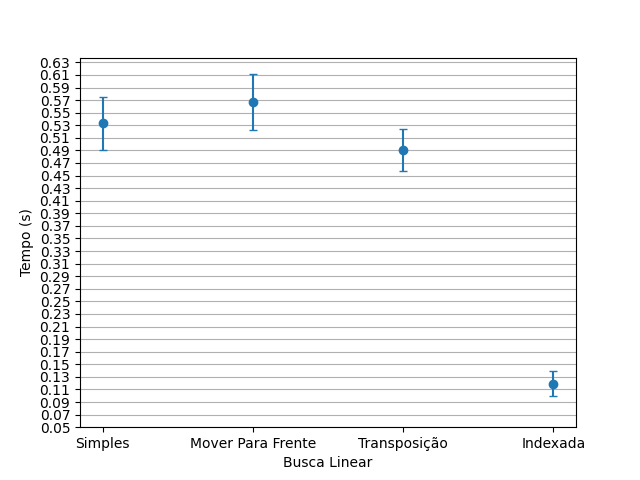
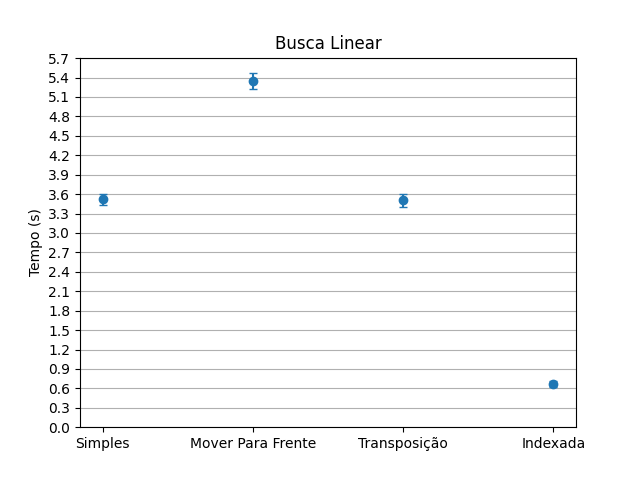
linear search data output

Changed region(s): [[0.0312, 0.0938, 0.9062, 0.9062], [0.4062, 0.0625, 0.5938, 0.125], [0.4375, 0.9375, 0.5938, 1.0]]

diff --git a/scripts/simpleSearchCalculator.py b/scripts/simpleSearchCalculator.py
@@ -45,8 +45,8 @@ for df in dfs:
 
 plt.errorbar(df_names, means, stds, linestyle='None', marker='o', capsize=3)
 plt.ylabel('Tempo (s)')
-plt.xlabel('Busca Linear')
-plt.yticks(np.arange(0.05, 0.65, 0.02))
+plt.title('Busca Linear')
+plt.yticks(np.arange(0.00, 5.8, 0.3))
 plt.grid(which='major', axis='y')
 
 #plt.show()
